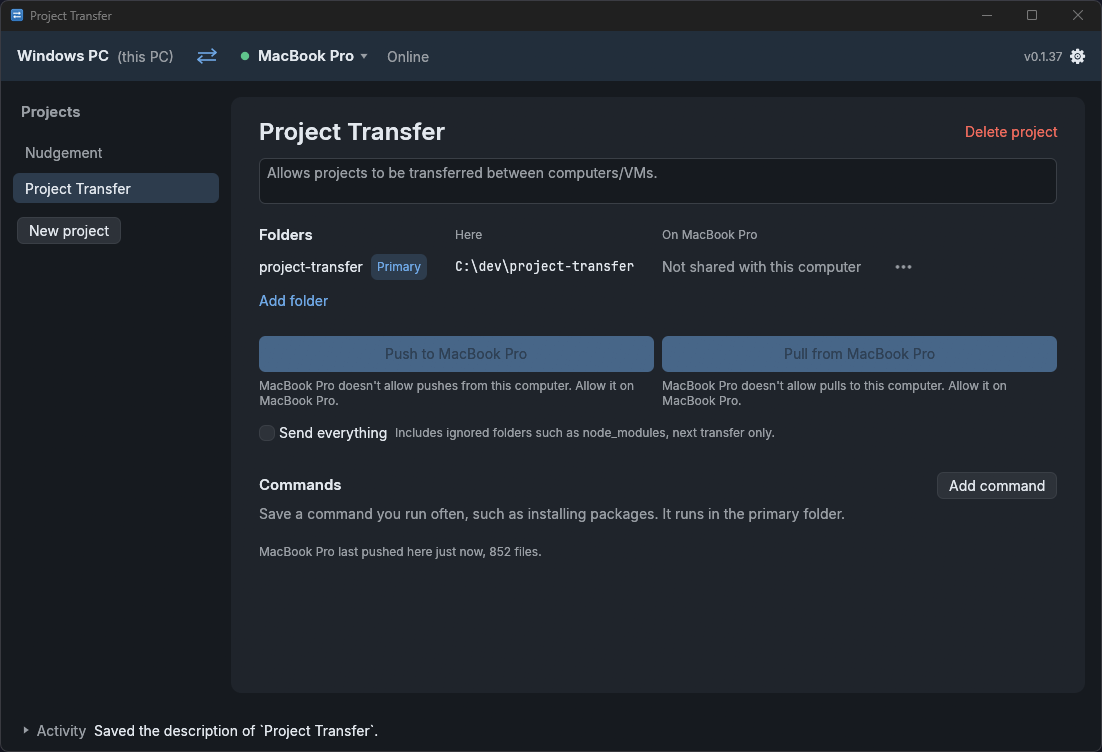
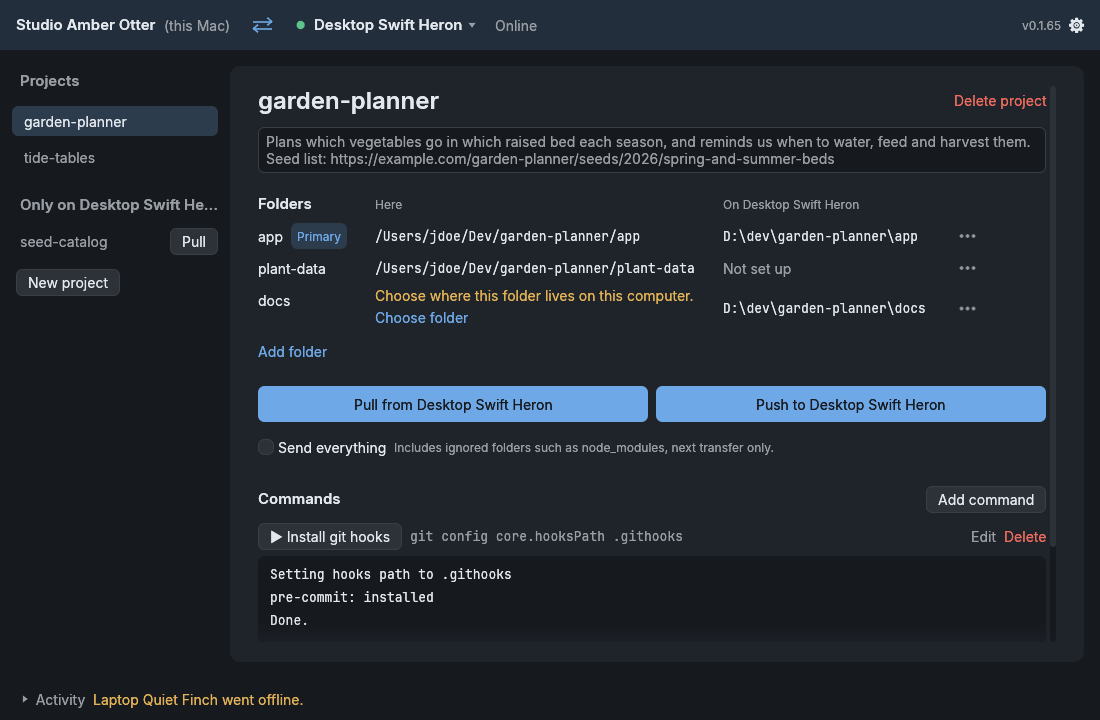
feat(xtask): render the README screenshot from mock data
- `cargo xtask screenshot` renders the seeded test state and writes the webp
- AGENTS.md asks for a fresh image whenever the main window changes

diff --git a/xtask/src/main.rs b/xtask/src/main.rs
@@ -1,8 +1,9 @@
-//! Project tooling: `cargo xtask install`, `icon`, `bump-version`, `words`,
-//! `pre-commit` and `hooks`.
+//! Project tooling: `cargo xtask install`, `icon`, `screenshot`,
+//! `bump-version`, `words`, `pre-commit` and `hooks`.
 
 mod icon;
 mod mac;
+mod screenshot;
 mod version;
 mod windows;
 mod word_list;
@@ -12,12 +13,13 @@ use anyhow::{Context, Result, bail};
 use std::path::{Path, PathBuf};
 use std::process::Command;
 
-const USAGE: &str = "usage: cargo xtask <command>\n\n  install [--dest <folder>]   build the app and install it\n  icon                        render assets/icon.png (and icon.ico)\n  bump-version                count the version up and stage it\n  words                       rewrite words.txt and word-changes.txt and stage them\n  pre-commit                  bump-version, then words (the pre-commit hook runs this)\n  hooks                       turn on the pre-commit hook for this clone";
+const USAGE: &str = "usage: cargo xtask <command>\n\n  install [--dest <folder>]   build the app and install it\n  icon                        render assets/icon.png (and icon.ico)\n  screenshot                  render the README screenshot from mock data\n  bump-version                count the version up and stage it\n  words                       rewrite words.txt and word-changes.txt and stage them\n  pre-commit                  bump-version, then words (the pre-commit hook runs this)\n  hooks                       turn on the pre-commit hook for this clone";
 
 #[derive(Debug, PartialEq)]
 enum Task {
     Install { dest: Option<PathBuf> },
     Icon,
+    Screenshot,
     BumpVersion,
     Words,
     PreCommit,
@@ -27,6 +29,7 @@ enum Task {
 fn parse_args(args: &[String]) -> Result<Task> {
     match args.first().map(String::as_str) {
         Some("icon") if args.len() == 1 => Ok(Task::Icon),
+        Some("screenshot") if args.len() == 1 => Ok(Task::Screenshot),
         Some("bump-version") if args.len() == 1 => Ok(Task::BumpVersion),
         Some("words") if args.len() == 1 => Ok(Task::Words),
         Some("pre-commit") if args.len() == 1 => Ok(Task::PreCommit),
@@ -53,6 +56,7 @@ fn main() -> Result<()> {
     let args: Vec<String> = std::env::args().skip(1).collect();
     match parse_args(&args)? {
         Task::Icon => icon::render_files(&repo_root()),
+        Task::Screenshot => screenshot::render(&repo_root()),
         Task::BumpVersion => bump_version(),
         Task::Words => refresh_words(),
         Task::PreCommit => bump_version().and_then(|()| refresh_words()),
@@ -177,6 +181,10 @@ mod tests {
     fn parses_commands() {
         assert_eq!(parse_args(&args(&["icon"])).unwrap(), Task::Icon);
         assert_eq!(
+            parse_args(&args(&["screenshot"])).unwrap(),
+            Task::Screenshot
+        );
+        assert_eq!(
             parse_args(&args(&["bump-version"])).unwrap(),
             Task::BumpVersion
         );
@@ -201,5 +209,6 @@ mod tests {
         assert!(parse_args(&args(&["install", "--dest"])).is_err());
         assert!(parse_args(&args(&["install", "--bogus"])).is_err());
         assert!(parse_args(&args(&["nope"])).is_err());
+        assert!(parse_args(&args(&["screenshot", "x"])).is_err());
     }
 }

diff --git a/xtask/src/screenshot.rs b/xtask/src/screenshot.rs
@@ -1,0 +1,53 @@
+//! `cargo xtask screenshot`: renders the main window from the tests' seeded
+//! fake state and saves it as the README's lossless webp.
+
+use crate::{run, target_dir};
+use anyhow::{Context, Result};
+use image::codecs::webp::WebPEncoder;
+use std::path::Path;
+use std::process::Command;
+
+const OUT: &str = "assets/images/project-transfer.webp";
+
+pub fn render(root: &Path) -> Result<()> {
+    let dir = target_dir(root)?.join("readme-shot");
+    std::fs::create_dir_all(&dir)?;
+    let png = dir.join("project-transfer.png");
+    // A stale PNG would hide a test that ran but drew nothing.
+    let _ = std::fs::remove_file(&png);
+
+    let cargo = std::env::var("CARGO").unwrap_or_else(|_| "cargo".into());
+    run(Command::new(cargo)
+        .current_dir(root)
+        .env("README_SHOT_PNG", &png)
+        .args([
+            "test",
+            "--package",
+            "project-transfer",
+            "--test",
+            "readme_shot",
+            "--",
+            "--ignored",
+            "--exact",
+            "readme_screenshot",
+        ]))?;
+
+    let img = image::open(&png)
+        .with_context(|| format!("the test did not leave a PNG at {}", png.display()))?
+        .to_rgba8();
+    let out = root.join(OUT);
+    let tmp = out.with_extension("webp.tmp");
+    let file = std::fs::File::create(&tmp)
+        .with_context(|| format!("could not create {}", tmp.display()))?;
+    WebPEncoder::new_lossless(std::io::BufWriter::new(file))
+        .encode(
+            img.as_raw(),
+            img.width(),
+            img.height(),
+            image::ExtendedColorType::Rgba8,
+        )
+        .context("could not encode the webp")?;
+    std::fs::rename(&tmp, &out)?;
+    println!("Wrote {OUT} ({}x{})", img.width(), img.height());
+    Ok(())
+}

diff --git a/tests/readme_shot.rs b/tests/readme_shot.rs
@@ -1,0 +1,29 @@
+//! Renders the README screenshot from the seeded fake state, never a real
+//! install. `cargo xtask screenshot` runs it and turns the PNG into webp.
+
+mod ui_support;
+
+use project_transfer::core::{OutputLine, RunStatus};
+use ui_support::{FakeBackend, NoPicker, SIZE, build};
+
+#[test]
+#[ignore = "run by `cargo xtask screenshot`"]
+fn readme_screenshot() {
+    let path = std::env::var("README_SHOT_PNG").expect("set README_SHOT_PNG to the output path");
+    let fake = FakeBackend::seeded();
+    fake.update(|s| {
+        // A finished run has no spinner, so reruns draw the same pixels.
+        for run in s.command_runs.values_mut() {
+            run.status = RunStatus::Exited(Some(0));
+            run.lines.retain(|l| !l.stderr);
+            run.lines.push(OutputLine {
+                stderr: false,
+                text: "Done.".into(),
+            });
+        }
+    });
+    let mut h = build(fake, Box::new(NoPicker), SIZE, 1.0, true);
+    h.run_ok();
+    let img = h.render().expect("render the window");
+    img.save(&path).expect("save the png");
+}

diff --git a/AGENTS.md b/AGENTS.md
@@ -14,6 +14,7 @@ How to do local development: `DEVELOPMENT.md`.
 - mDNS service type: `_projtransfer._tcp.local.`
 - Data home: `Project Transfer` in the per-user local app data folder (`store::default_root`), overridden by env `PROJECT_TRANSFER_HOME`.
 - Files in the data home: `instance.json`, `peers.json`, `projects.json`, `identity/cert.der`, `identity/key.der`, `logs/`. All JSON writes are temp-file-then-rename.
+- When a change alters what the main window looks like, run `cargo xtask screenshot` and commit the updated `assets/images/project-transfer.webp`. It renders mock data only.
 - Default theme is dark. Palette and type are set in `src/ui/theme.rs`.
 - UI copy: sentence case, buttons name their action, errors say what happened and what to do. No ALL CAPS labels.
 - Comments say why, not what (the exception being more subtle/complex areas).

diff --git a/DEVELOPMENT.md b/DEVELOPMENT.md
@@ -22,6 +22,10 @@ On Windows PowerShell, set the variable first with
 port by itself, and the two find each other within a few seconds.
 
 `cargo xtask icon` redraws `assets/icon.png` and `assets/icon.ico`.
+`cargo xtask screenshot` redraws the README screenshot,
+`assets/images/project-transfer.webp`, from the UI tests' made-up computers
+and projects. Run it whenever the main window looks different, and commit the
+image.
 
 `words.txt` lists every word in the files git tracks, one per line, and
 `word-changes.txt` lists the words a commit added (`+word`) or removed
